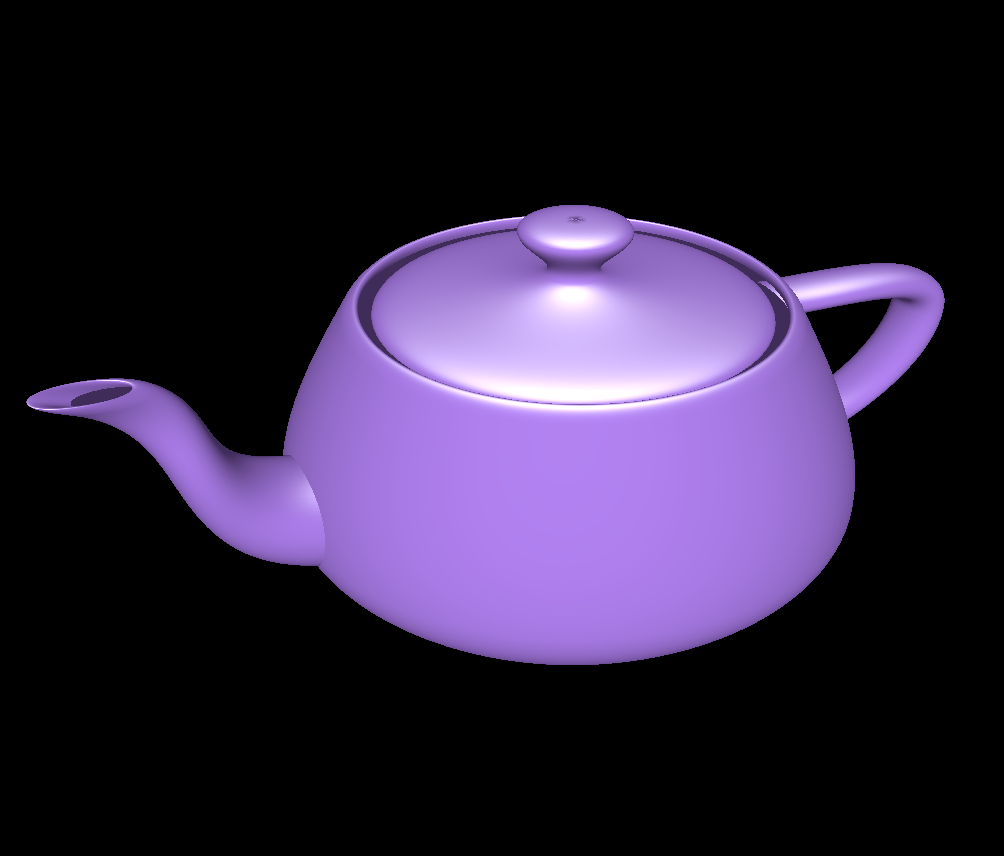
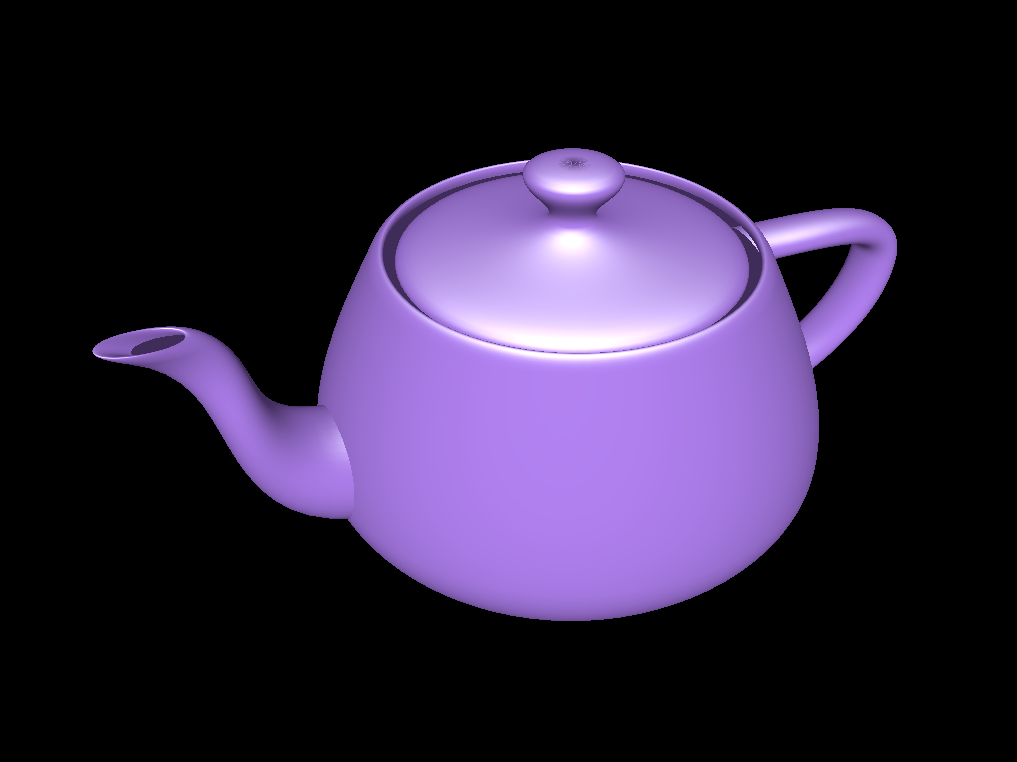
Handle window aspect ratio

Changed region(s): [[0.0309, 0.1811, 0.9572, 0.815]]

diff --git a/src/main.rs b/src/main.rs
@@ -8,7 +8,7 @@ const OPENGL_TO_WGPU_MATRIX: cgmath::Matrix4<f32> = cgmath::Matrix4::new(
 );
 
 fn generate_matrix(aspect_ratio: f32) -> cgmath::Matrix4<f32> {
-    let mx_projection = cgmath::perspective(cgmath::Deg(40f32), aspect_ratio, 1.0, 10.0);
+    let mx_projection = cgmath::perspective(cgmath::Deg(35f32), aspect_ratio, 1.0, 10.0);
     let mx_view = cgmath::Matrix4::look_at(
         cgmath::Point3::new(3.5f32, 7.0, 7.0),
         cgmath::Point3::new(0.5f32, 0.0, 1.4),
@@ -125,6 +125,8 @@ fn main() {
 
     // u_Transform
     let aspect_ratio = 1.;
+    let mut prev_width = 0;
+    let mut prev_height = 0;
     let mx_total = generate_matrix(aspect_ratio);
     let mx_ref: &[f32; 16] = mx_total.as_ref();
     let uniform_buf = device.create_buffer_with_data(
@@ -140,7 +142,7 @@ fn main() {
             ty: wgpu::BindingType::UniformBuffer { dynamic: false },
         }],
     });
-    let bind_group = device.create_bind_group(&wgpu::BindGroupDescriptor {
+    let mut bind_group = device.create_bind_group(&wgpu::BindGroupDescriptor {
         layout: &bind_group_layout,
         bindings: &[wgpu::Binding {
             binding: 0,
@@ -306,6 +308,30 @@ fn main() {
                             },
                         ),
                     });
+
+                    // if window aspect ratio changed, we have to recreate matrix
+                    if sc_desc.width != prev_width || sc_desc.height != prev_height {
+                        let aspect_ratio = sc_desc.width as f32 / sc_desc.height as f32;
+                        let mx_total = generate_matrix(aspect_ratio);
+                        let mx_ref: &[f32; 16] = mx_total.as_ref();
+                        let uniform_buf = device.create_buffer_with_data(
+                            mx_ref.as_bytes(),
+                            wgpu::BufferUsage::UNIFORM | wgpu::BufferUsage::COPY_DST,
+                        );
+                        bind_group = device.create_bind_group(&wgpu::BindGroupDescriptor {
+                            layout: &bind_group_layout,
+                            bindings: &[wgpu::Binding {
+                                binding: 0,
+                                resource: wgpu::BindingResource::Buffer {
+                                    buffer: &uniform_buf,
+                                    range: 0..64,
+                                },
+                            }],
+                        });
+                        prev_width = sc_desc.width;
+                        prev_height = sc_desc.height;
+                    }
+
                     rpass.set_pipeline(&render_pipeline);
                     rpass.set_bind_group(0, &bind_group, &[]);
                     rpass.set_index_buffer(&index_buf, 0);
